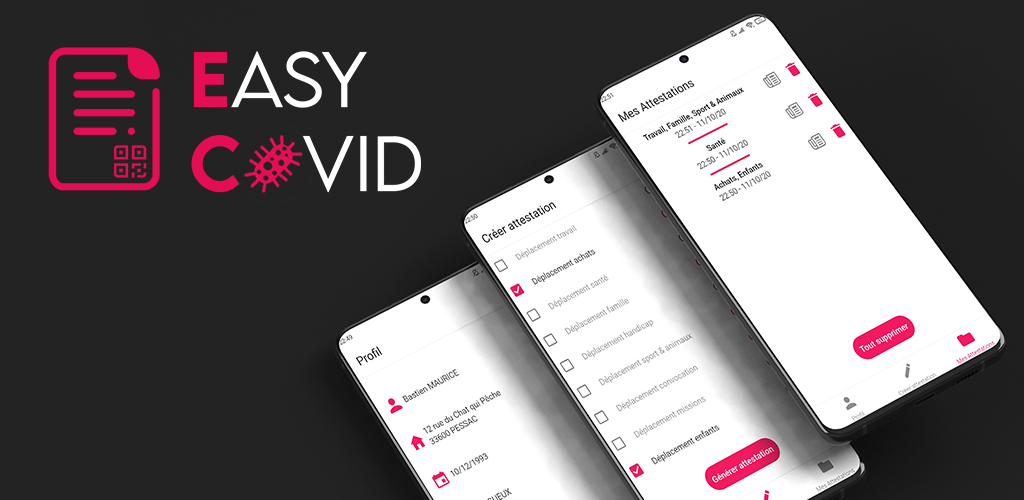
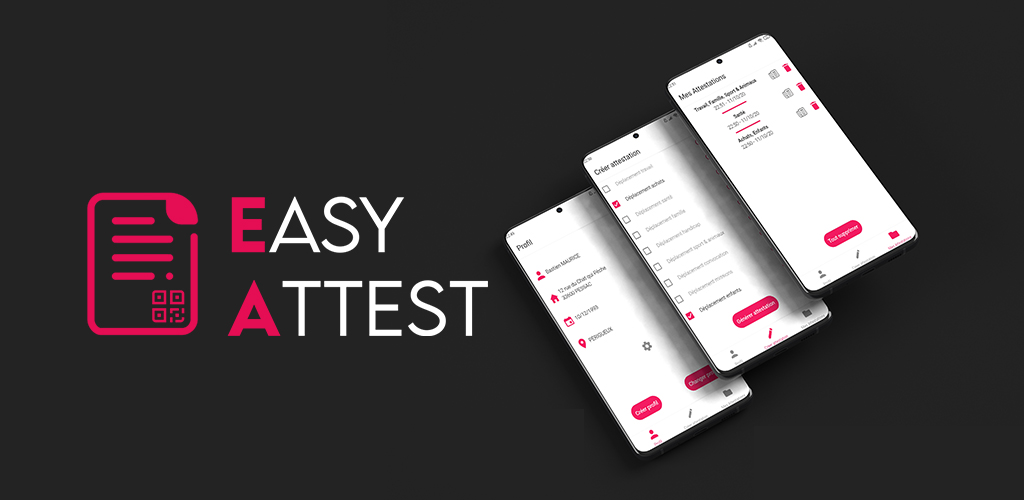
apple/google policy covid name

diff --git a/README.md b/README.md
@@ -9,7 +9,7 @@ Générez, stockez & partagez vos attestations de déplacement dérogatoire en u
   
 Application mobile Android & iOS pour la génération d’attestations de déplacement dérogatoire durant le confinement en France. Attestation crée à partir du document officiel, évitant tout contact lors d’un contrôle afin de respecter les gestes barrière.   
   
-EasyCovid, c’est simple :  
+EasyAttest, c’est simple :  
 
 ✔ Création de profil  
 Vous pouvez créer puis gérer un profil pour chacun des membres de votre famille.
